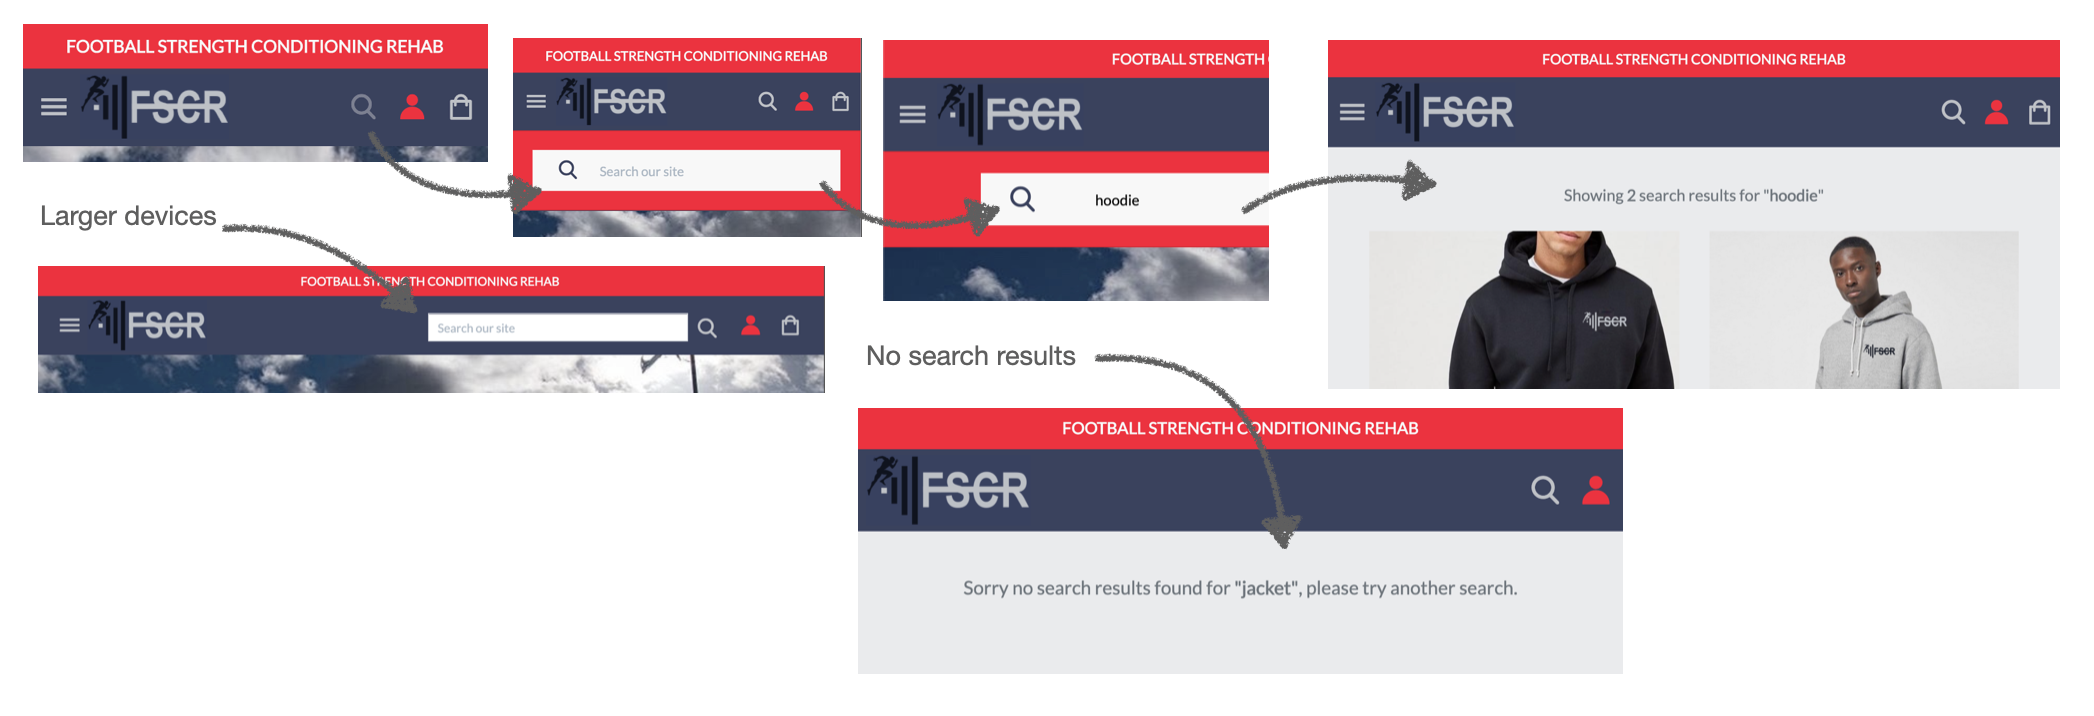
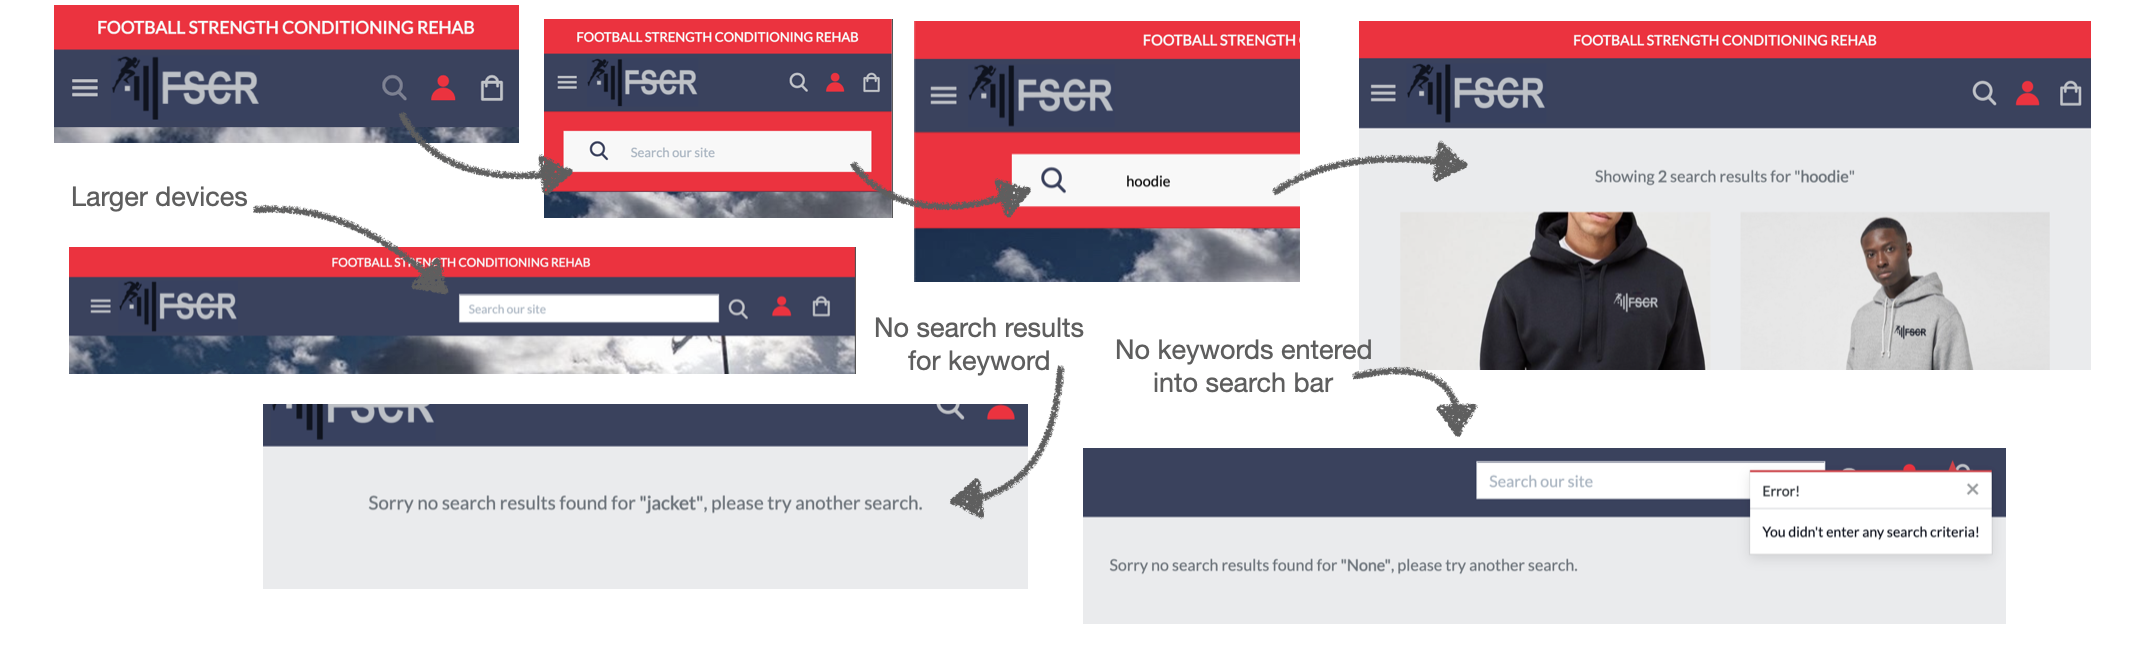
new img added for us-18, manual testing added, arrow links working correctly, coverage collapse added

diff --git a/testing.md b/testing.md
@@ -1,4 +1,4 @@
-## &rarr; **Testing**
+## <ins>Testing</ins>
 
 **<details open><summary> Testing Documentation</summary>**
   - [Testing user stories](#testing-user-stories)
@@ -221,7 +221,7 @@ When logged in as admin user, the user has a delete button displayed next to the
 **30. Add a blog**
 
 When logged into the admin, the admin user can add a new blog to the site. 
-- I didn't think it was necessary to add a manual function for adding a blog as these will be posted less frequently and have little chance of needing modifications after being posted.
+- I didn't think it was necessary to add a manual function for adding a blog as these will be posted less frequently and have a smaller chance of needing modifications after being posted.
 
 **31. Links to FSCR social media platforms**
 
@@ -230,7 +230,7 @@ Social media platform links are featured in the page footer below the copyright 
 
     <img src="readme/media/us-31.png">
 
-## [&#8679;](#table-of-contents)
+## [&#8679;](#testing)
 ---
 
 ### **Manual function testing**
@@ -267,6 +267,7 @@ To ensure my site was working correctly I carried out some manual function testi
 - [x] Search bar showing the correct format based on device size
 - [x] After entering keywords and hitting enter or the search icon, user is directed to the search page template with appropriate results
 - [x] If user enters a keyword with no results the correct message is displayed
+- [x] If user submits a search with no keywords they are directed to the search page with no results and the appropriate error message
 - [x] When not logged, under the profile icon user has the options of 'register' and 'login'
 - [x] When logged in, under the profile icon user has the options of 'My Profile' and 'logout'
 - [x] When logged in as admin, under the profile icon user has the added options of 'product management' and 'programme management'
@@ -445,7 +446,7 @@ When logged in as Admin user...
 - [x] If user updates their information in their profile this is reflected on the checkout page
 
 
-## [&#8679;](#table-of-contents)
+## [&#8679;](#testing)
 ---
 
 ### **Automated testing**
@@ -470,6 +471,9 @@ The results from each test were displayed in the terminal, letting me know if th
 
 I used **Coverage** to identify the percentage of code the tests had covered and to determine which areas to focus on. Due to time constraints, I aimed to reach a minimum of 50% coverage on all my apps. However, I will continue to add tests to get as close to 100% as I can. 
 
+<details>
+<summary>Setting up Coverage</summary>
+<p>
 To set up and use Coverage, I used the following commands;
 
 * To Install:
@@ -494,7 +498,9 @@ To set up and use Coverage, I used the following commands;
     
     `$ python3 - m http.server`
 
-## [&#8679;](#table-of-contents)
+</details>
+
+## [&#8679;](#testing)
 ---
 
 ### **Validator checks**
@@ -588,7 +594,7 @@ This error has been fixed on the majority of my code but some lines have been le
 `F401 'checkout.signals' imported but unused`
 `F841 local variable 'e' is assigned to but never used`
 
-## [&#8679;](#table-of-contents)
+## [&#8679;](#testing)
 ---
 
 ### **Audits**
@@ -621,7 +627,7 @@ I didn't take any actions as none of my users experienced difficulty reading the
 
 I didn't take any actions as the error was for displaying 'read more' which I believe is a conventional text link for users. This is also very similar to the suggested generic link text 'learn more'.
 
-## [&#8679;](#table-of-contents)
+## [&#8679;](#testing)
 ---
 
 ### **Responsive Design**
@@ -632,7 +638,7 @@ I didn't take any actions as the error was for displaying 'read more' which I be
 
 - Viewport tag included in the head of HTML files to tell the browser how to respond to different resolutions, particularly mobile ones.
 
-## [&#8679;](#table-of-contents)
+## [&#8679;](#testing)
 ---
 
 ### **Additional Testing**
@@ -643,14 +649,16 @@ I didn't take any actions as the error was for displaying 'read more' which I be
 
 - Friends and family members were asked to review the site to point out any bugs, user experience issues, and/or suggestions.
 
+  > **NB:** All appropriate suggestions have been added to my future plans.
+
     Feedback action:
-    - To pay using apple pay- this is included in my future development plans.
-    - More search queries so I can search forums- this is included in my future development plans.
-    - Add a count onto the bag icon so users can easily see how many items are in their bag- this is included in my future development plans.
-    - Ability for user to autofill address by entering postcode- this is included in my future development plans. 
+    - Ability to pay using apple pay
+    - More search queries so I can search forum topics
+    - Add a number count onto the bag icon so I can easily see how many items are in my bag
+    - Ability to autofill address by entering postcode 
 - Project posted on Slack, asking for feedback from fellow students.
 
-## [&#8679;](#table-of-contents)
+## [&#8679;](#testing)
 ---
 
 ### **Bugs**
